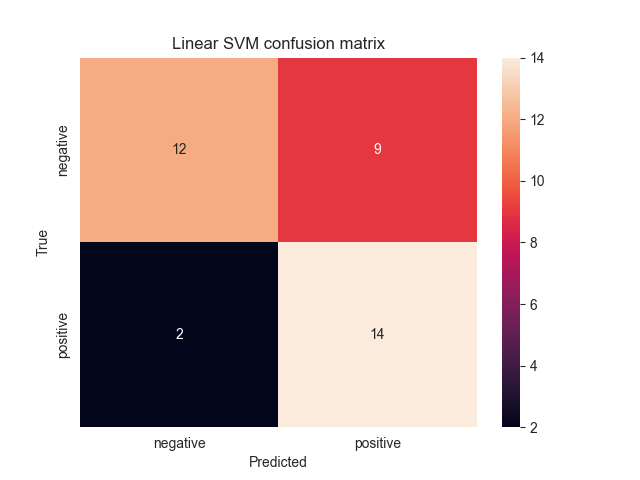
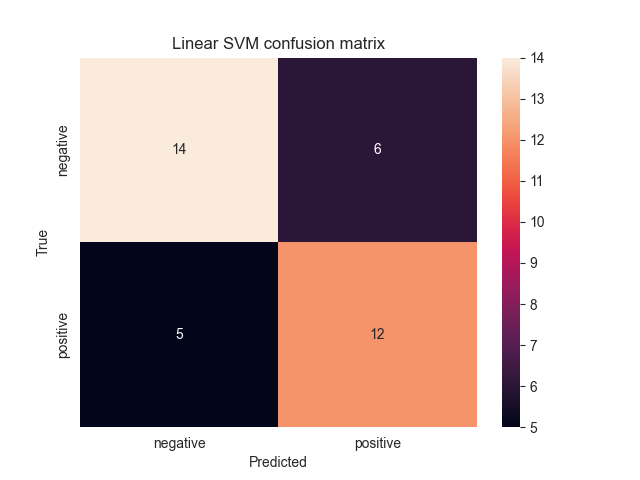
feat: update seed value

diff --git a/app/services/training_service.py b/app/services/training_service.py
@@ -45,7 +45,7 @@ class TrainingService(metaclass=SingletonMeta):
         # Split dataset in training and test
         x_values = df[word_columns]
         y_values = df['sentiment']
-        seed = 50
+        seed = 1
 
         x_train, x_test, y_train, y_test = train_test_split(
             x_values,
